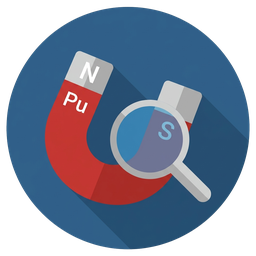
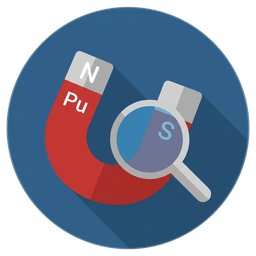
fix: v1.0.5 hero 图标 84px 且白角转透明圆形、占位文字改输入搜索内容、默认窗口 1341x687

diff --git a/web/js/views/search.js b/web/js/views/search.js
@@ -446,7 +446,7 @@
           '</div>' +
           '<div class="spacer"></div>' +
           '<div class="sentry">' + ICONS.search +
-            '<input id="inp" placeholder="输入关键字，空格分隔多个词" autocomplete="off">' +
+            '<input id="inp" placeholder="输入搜索内容" autocomplete="off">' +
             '<button class="gobtn" id="goBtn">搜索</button>' +
           '</div>' +
           '<button class="iconbtn" id="btnRows" title="行高">' + ICONS.rows + '</button>' +
@@ -868,7 +868,7 @@
         '<div class="hero-in">' +
           '<img class="brandmark" src="assets/app-256.png" alt="">' +
           '<div class="hero-search">' + ICONS.search +
-            '<input id="heroInp" placeholder="输入关键字，空格分隔多个词" autocomplete="off">' +
+            '<input id="heroInp" placeholder="输入搜索内容" autocomplete="off">' +
             '<button class="gobtn" id="heroGo">搜索</button>' +
           '</div>' +
           '<div class="hero-srcs" id="heroSrcs"></div>' +

diff --git a/web/styles/base.css b/web/styles/base.css
@@ -713,7 +713,7 @@ body{
 .hero.leave{animation:heroOut .26s var(--e) both}
 .hero-in{width:min(560px, 86%); display:flex; flex-direction:column; align-items:center; gap:var(--sp-5); transform:translateY(-6vh)}
 .brandmark{
-  width:72px; height:72px; border-radius:19px;
+  width:84px; height:84px; border-radius:50%;
   box-shadow:0 18px 44px -10px rgba(88,101,242,.5); object-fit:cover;
 }
 .hero-search{

diff --git a/web/js/api.js b/web/js/api.js
@@ -252,7 +252,7 @@
 
     appInfo: function(){
       if (live()) return window.pywebview.api.app_info();
-      return Promise.resolve({version:"1.0.4", dataDir:"(mock 模式)", mode:"mock"});
+      return Promise.resolve({version:"1.0.5", dataDir:"(mock 模式)", mode:"mock"});
     },
 
     onSearch: function(hooks){ sHooks = hooks || {}; },

diff --git a/app/shell.py b/app/shell.py
@@ -12,8 +12,8 @@ from . import APP_TITLE, APP_TITLE_FULL, __version__, api, log, single, store
 
 logger = log.get_logger(__name__)
 
-WIDTH = 1180
-HEIGHT = 760
+WIDTH = 1341
+HEIGHT = 687
 MIN_WIDTH = 960
 MIN_HEIGHT = 640
 BACKGROUND = "#FFFFFF"

diff --git a/app/__init__.py b/app/__init__.py
@@ -1,6 +1,6 @@
 from __future__ import annotations
 
-__version__ = "1.0.4"
+__version__ = "1.0.5"
 APP_TITLE = "happycrate"
 
 APP_TITLE_FULL = f"Happycrate v{__version__}"
